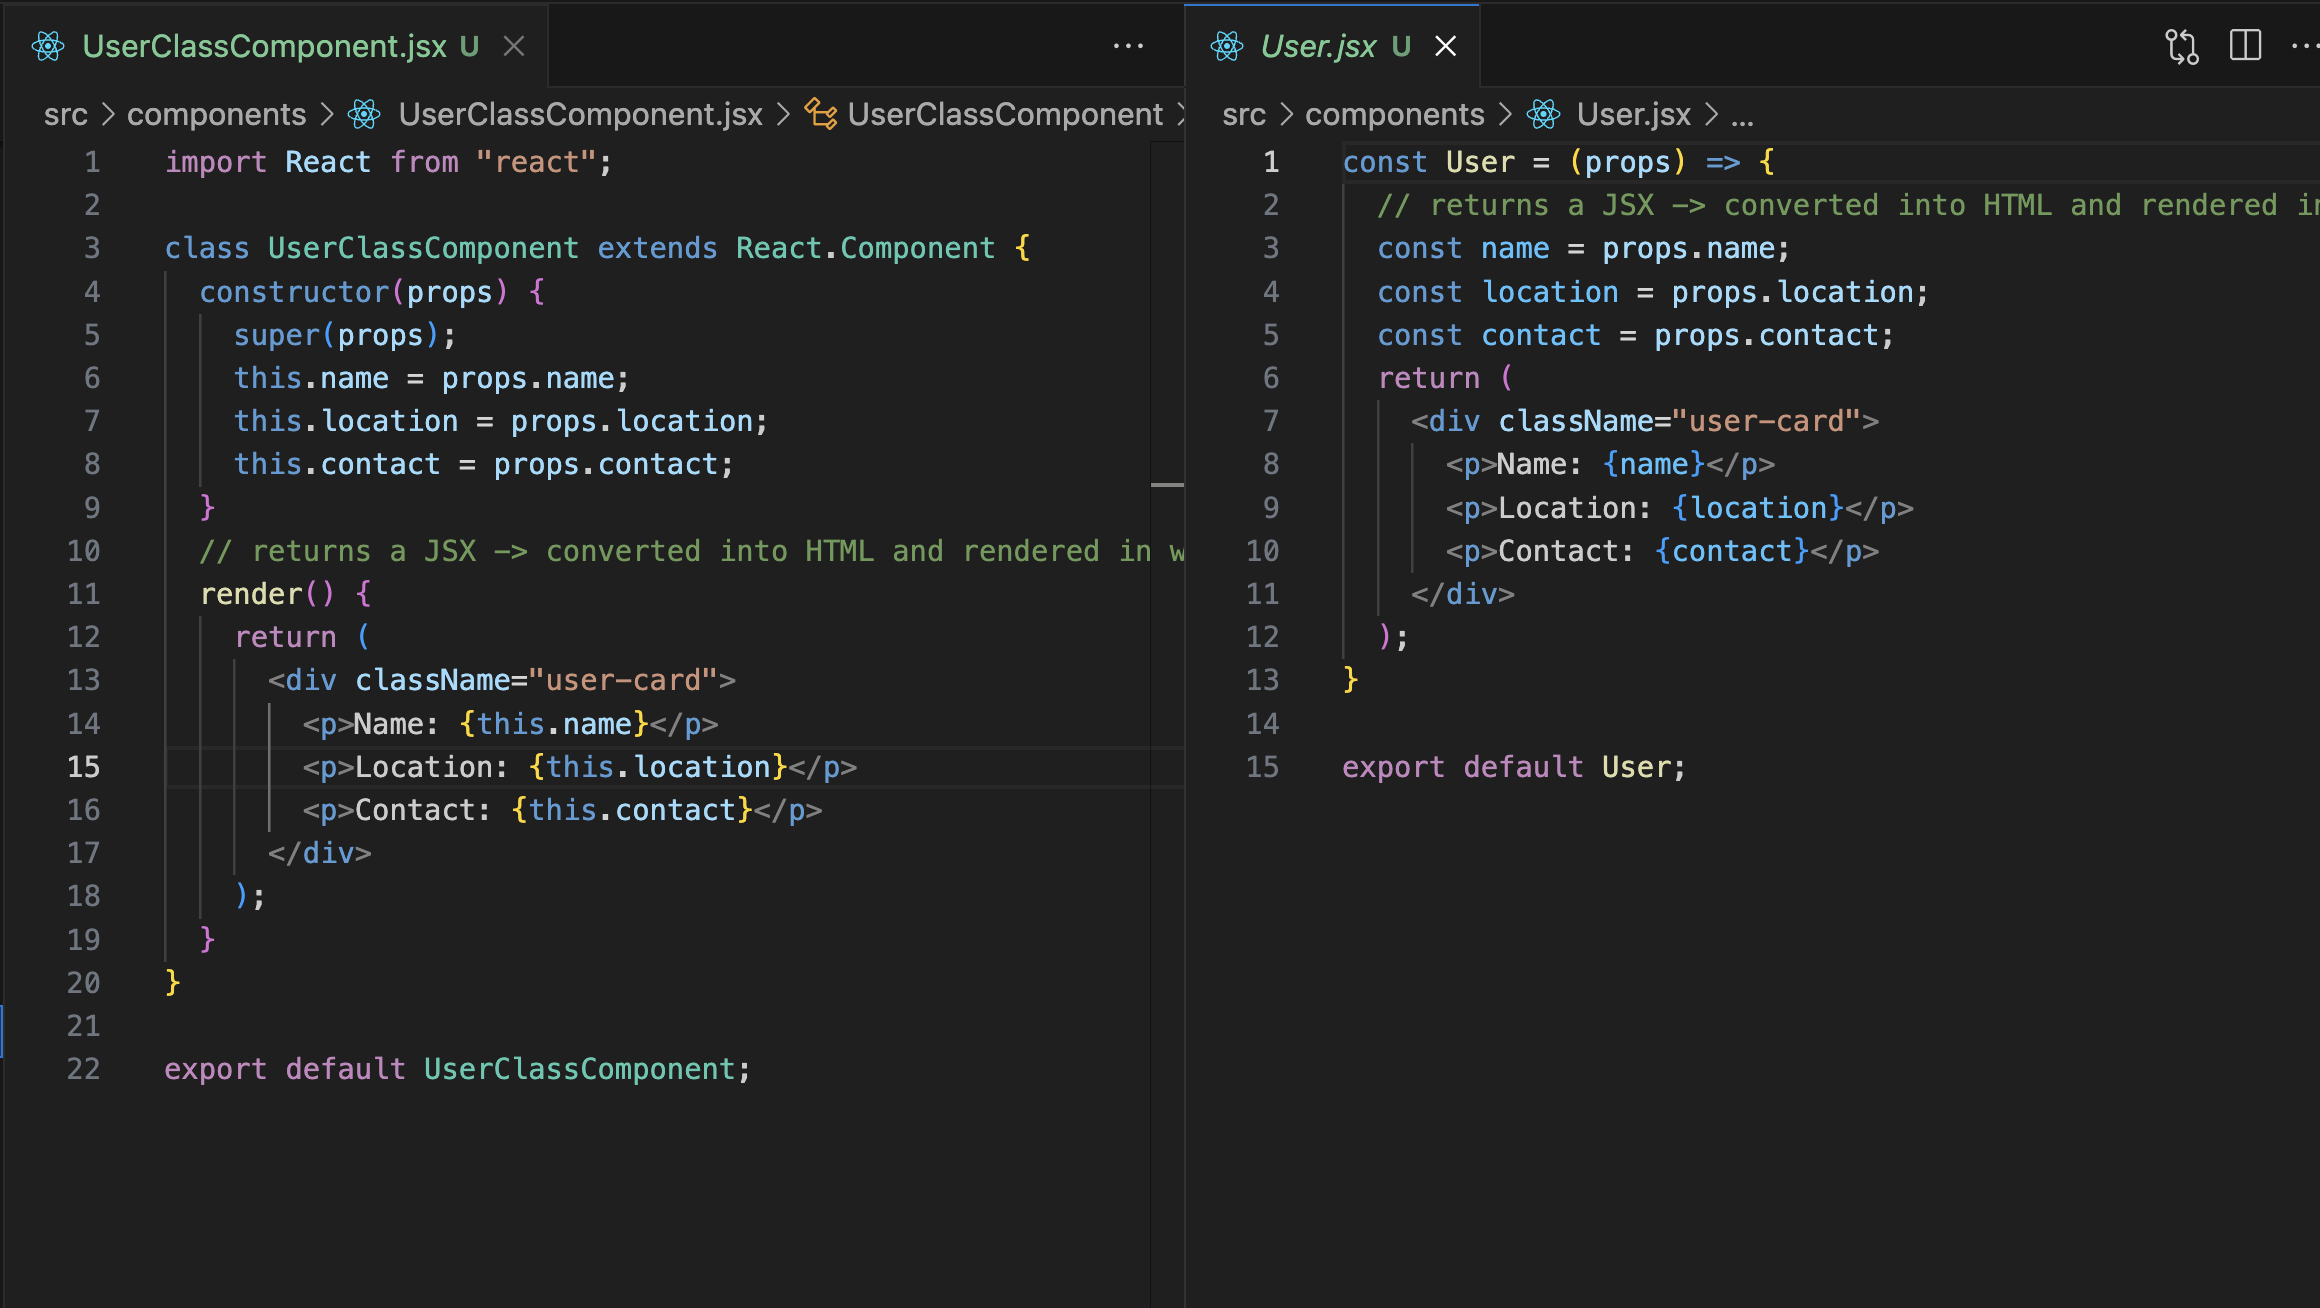
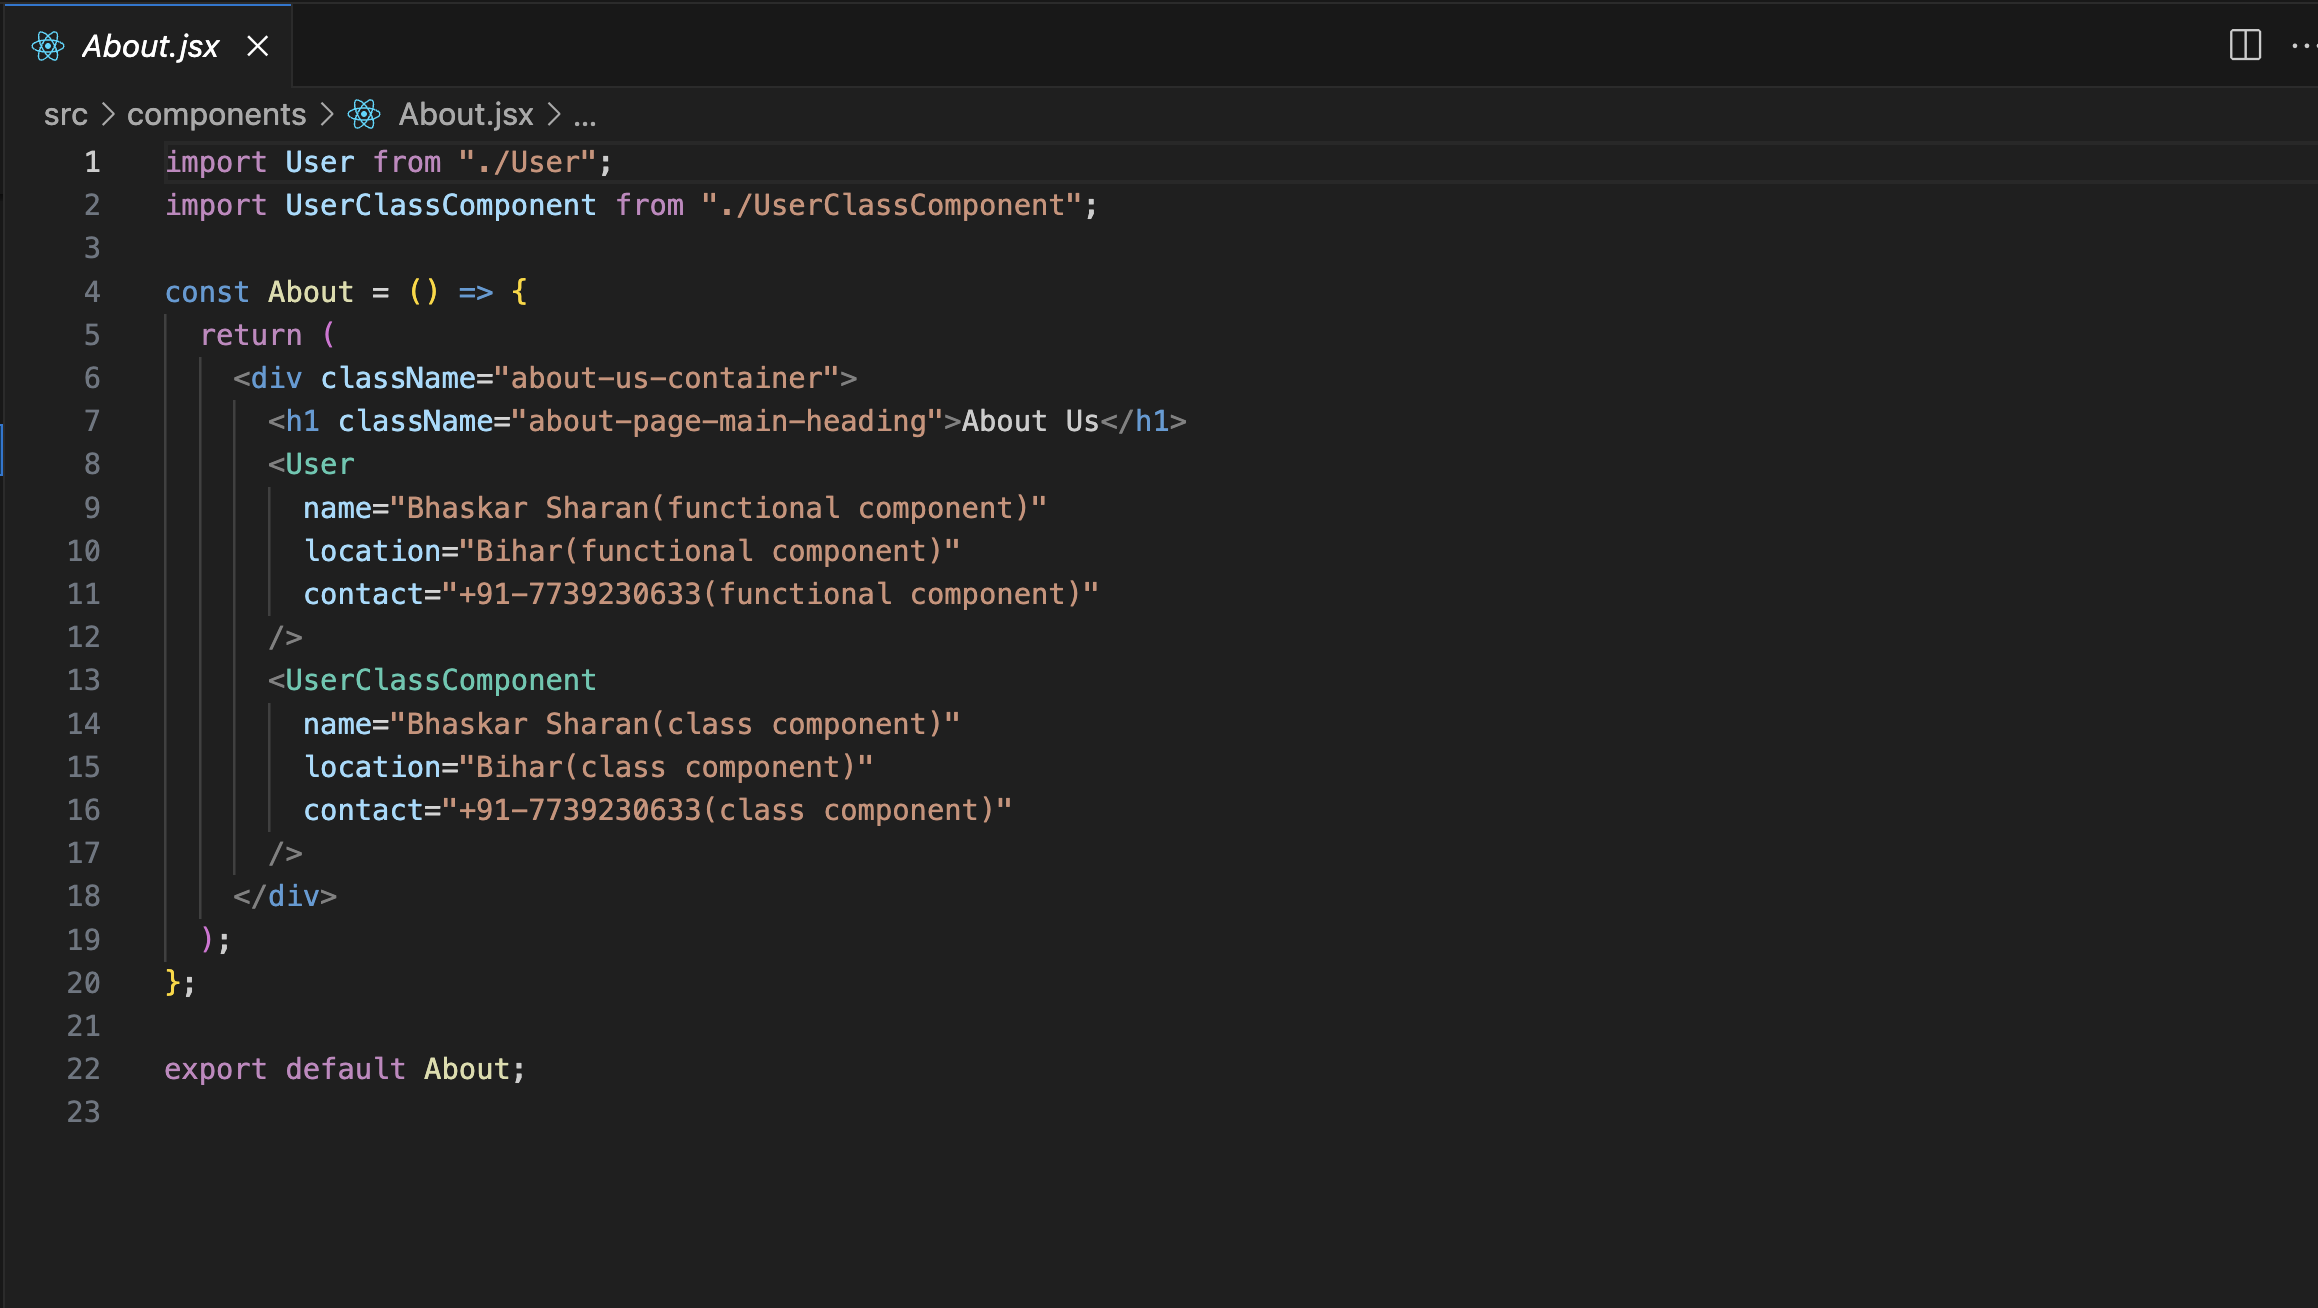
Adding state in class based component

diff --git a/src/components/UserClassComponent.jsx b/src/components/UserClassComponent.jsx
@@ -3,18 +3,27 @@ import React from "react";
 class UserClassComponent extends React.Component {
   constructor(props) {
     super(props);
+    this.state = {
+      courseCompletedCount: 1,
+      someVariable: null
+    };
   }
   // returns a JSX -> converted into HTML and rendered in web page
   render() {
-    const {name, location, contact} = this.props
+    const { name, location, contact } = this.props
+    const {courseCompletedCount
+  } = this.state;
     return (
       <div className="user-card">
         <p>Name: {name}</p>
         <p>Location: {location}</p>
         <p>Contact: {contact}</p>
+        <p>CourseCompleted: {courseCompletedCount}</p>
       </div>
     );
   }
 }
 
 export default UserClassComponent;
+// 1. Whenever an instance of class was created, the state was created.
+// 2. Loading a class based component on web page means we are creating an instance of the class - constructor is called and we can create state variables here.

diff --git a/src/components/User.jsx b/src/components/User.jsx
@@ -1,4 +1,8 @@
+import { useState } from "react";
+
 const User = (props) => {
+  const [courseCompletedCount] = useState(1);
+  const [someVariable] = useState(null);
   // returns a JSX -> converted into HTML and rendered in web page
   const name = props.name;
   const location = props.location;
@@ -8,6 +12,7 @@ const User = (props) => {
       <p>Name: {name}</p>
       <p>Location: {location}</p>
       <p>Contact: {contact}</p>
+      <p>CourseCompleted: {courseCompletedCount}</p>
     </div>
   );
 }

diff --git a/src/components/Body.jsx b/src/components/Body.jsx
@@ -40,7 +40,7 @@ const Body = () => {
     let list = finalRestaurantData;
 
     if (topRatedFilterActive) {
-      list = list.filter((r) => (r?.info?.avgRating || 0) > 4.5);
+      list = list.filter((r) => (r?.info?.avgRating || 0) >= 4.5);
     }
 
     const q = searchText.trim().toLowerCase();
